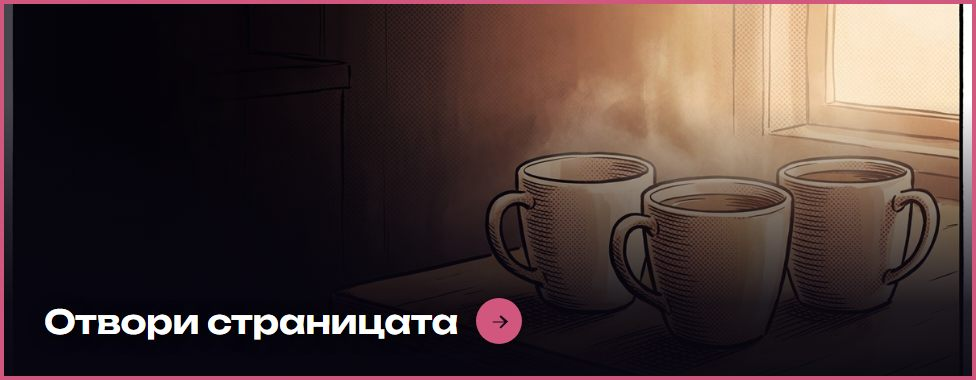
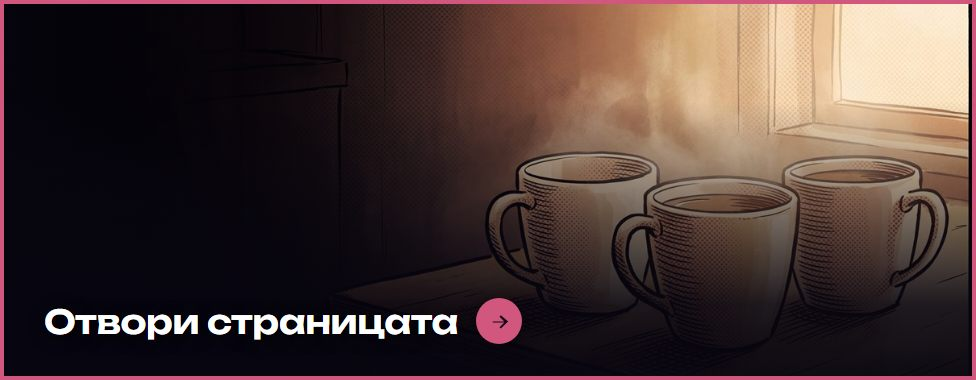
Бели ивици по ръба и две сгрешени времетраения
ДВЕ МОИ ГРЕШКИ, и двете хванати от Мирослав на екрана, не от мен при проверка.

Първата: широката илюстрация има чисто бели ивици по 49 и 50 пиксела отляво и
отдясно. Миналата песен проверих квадратната за такъв ръб и я изрязах; тази
не проверих широката. Сега се реже 52 отляво и отдясно, и по 28 отгоре и
отдолу, за да остане съотношението точно 1.881.

Втората е по-лоша, защото беше мълчалива. Смятах времетраенето от Xing
заглавката с фиксирани 44100 Hz, а всичките файлове са 48000. Резултатът е
завишен с 9%: „Дългата любов" излизаше 4:19 вместо 3:58, а „Двайсет пъти да"
3:35 вместо 3:17.

На екрана не личи, защото main.js презаписва надписа с истинската
продължителност от самото аудио — затова числото в плейъра показа 3:58, а моето
4:19 стоеше само в JSON-LD и в писмото. Тоест грешката се виждаше единствено
там, където никой не гледа.

Двете времена на Живко (4:21 и 4:08) са верни: тях ги даде той, не ги смятах аз.

Поуката е в метода: броенето на кадри чете честотата ОТ ФАЙЛА, вместо да я
приема. Xing дава броя кадри, но не и честотата — тя е в самия кадър.

diff --git a/pesni/dvaiset-pati-da.html b/pesni/dvaiset-pati-da.html
@@ -47,7 +47,7 @@
     "name": "Двайсет пъти да",
     "byArtist": { "@type": "Organization", "name": "Pesenta.bg" },
     "inLanguage": "bg",
-    "duration": "PT3M35S",
+    "duration": "PT3M17S",
     "genre": "българска поп балада с ретро диско и хип-хоп",
     "image": "https://pesenta.bg/assets/img/og-dvaiset-pati-da.jpg",
     "audio": "https://pesenta.bg/assets/audio/dvaiset-pati-da.mp3",
@@ -93,7 +93,7 @@
       <div class="podarak-meta">
         <h3>Двайсет пъти да</h3>
         <div class="progress" aria-hidden="true"><div class="progress-fill"></div></div>
-        <span class="time">3:35</span>
+        <span class="time">3:17</span>
       </div>
     </div>
     <a class="podarak-svali" href="../assets/audio/dvaiset-pati-da.mp3"

diff --git a/pesni/dalgata-lyubov.html b/pesni/dalgata-lyubov.html
@@ -45,7 +45,7 @@
     "name": "Дългата любов",
     "byArtist": { "@type": "Organization", "name": "Pesenta.bg" },
     "inLanguage": "bg",
-    "duration": "PT4M19S",
+    "duration": "PT3M58S",
     "genre": "българска акустична балада",
     "image": "https://pesenta.bg/assets/img/og-dalgata-lyubov.jpg",
     "audio": "https://pesenta.bg/assets/audio/dalgata-lyubov.mp3",
@@ -90,7 +90,7 @@
       <div class="podarak-meta">
         <h3>Дългата любов</h3>
         <div class="progress" aria-hidden="true"><div class="progress-fill"></div></div>
-        <span class="time">4:19</span>
+        <span class="time">3:58</span>
       </div>
     </div>
     <a class="podarak-svali" href="../assets/audio/dalgata-lyubov.mp3"
